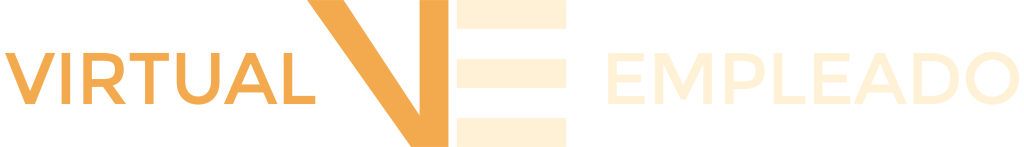
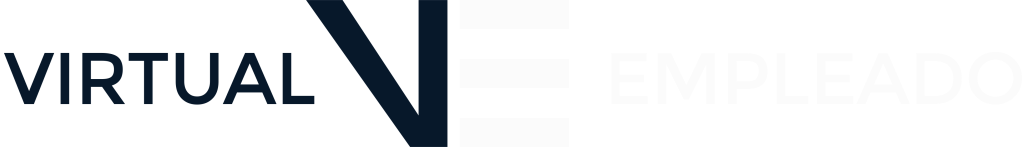
landing page modified

Changed region(s): [[0.0, 0.0, 0.5625, 1.0], [0.5938, 0.3537, 1.0, 0.7075]]

diff --git a/templates/virtualmain_pages/landing.html b/templates/virtualmain_pages/landing.html
@@ -11,11 +11,11 @@
 
 
 .div1{
-  background: #fff1d5;
+  background: #edeff0;
 }
 
 .div2{
-  background: #f3aa4e;
+  background: rgb(7,24,41);
 
 }
 
@@ -244,7 +244,7 @@
 
           <div class="div1 container uk-width-2-3@s py-5 ">
             <div class="mx-auto px-5">
-              <h1 class="display-2 head1 text-left "  style= "font-family:impact; color:#263238;"> Wanna Know More <br> About VE <a href="#"><img class="img-arrow1" style="height:100px;" src="{%static 'images/login copy.png' %}" alt=""></a></h1>
+              <h1 class="display-2 head1 text-left "  style= "font-family:impact; color:#263238;"> Wanna Know More <br> About VE <a href="#"><img class="img-arrow1" style="height:100px;" src="{%static 'images/leftlogin.png' %}" alt=""></a></h1>
 
             </div>
             <div class=" text-center mt-5 ">
@@ -255,11 +255,11 @@
 
           <div class="div2 container uk-width-1-3@s  py-5 ">
             <div class="text-left">
-              <img class="img-ve text-center " src="{% static 'images/VEland.png'%}" alt="">
+              <img class="img-ve text-center " src="{% static 'images/veland.png'%}" alt="">
             </div>
 
             <div class="mx-auto py-5 px-2">
-              <h1 class=" display-2 head2 text-left" style="font-family :impact; color:#263238;">Go To <br>Login <a href="{% url 'login' %}"><img class="img-arrow2" style="height:100px;" src="{% static 'images/loginpng2.png'%}" alt=""></a></h1>
+              <h1 class=" display-2 head2 text-left" style="font-family :impact; color:#fff;">Go To <br>Login <a href="{% url 'login' %}"><img class="img-arrow2" style="height:100px;" src="{% static 'images/rightlogin.png'%}" alt=""></a></h1>
             </div>
 
           </div>
